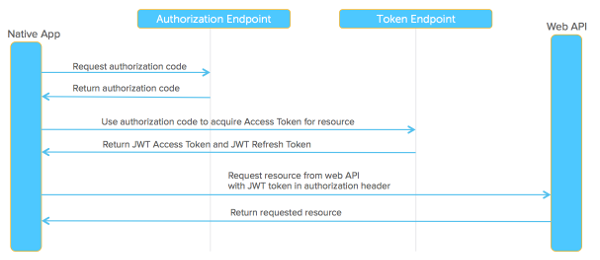
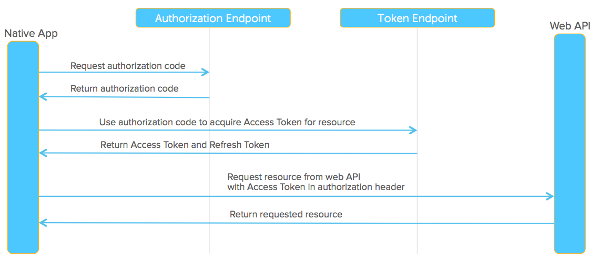
Don't push this commit. Finish it first.

Changed region(s): [[0.0, 0.0618, 0.99, 0.9884], [0.21, 0.0309, 0.51, 0.1236], [0.54, 0.0309, 0.84, 0.1236]]

diff --git a/_source/docs/api/resources/oauth2.md b/_source/docs/api/resources/oauth2.md
@@ -69,26 +69,12 @@ This is what the "state" parameter is used for in the flows described above; the
 
 ### Custom User Experience
 
-By default, the Authorization Endpoint will display the Okta login page and authenticate the user if they don't have an existing session. 
+By default, the Authorization Endpoint displays the Okta login page and authenticates the user if he or she doesn't have an existing session. 
 If you prefer to use a fully customized user experience, you can instead authenticate the user via the [Authentication API](http://developer.okta.com/docs/api/resources/authn.html). 
 This authentication method produces a `sessionToken` which can be passed into the Authorize Endpoint, and the user won't see an Okta login page.
 
 > Important: Okta uses public key cryptography to sign tokens and verify that they are valid. 
 See the last section of [Access Tokens](#access-tokens) for more information on the logic your application must have to ensure it’s always updated with the latest keys.
-
-### Reserved Scopes
-
-The Okta Authorization Server reserves a number of pre-defined (reserved) scopes which can't be overridden. 
-These include the standard OpenID Connect scopes (`openid`, `profile`, `email`, `phone`, `address`, `offline_access`) as well as a special scope called `groups`.
-
-Scopes are defined in the request parameter, and claims are in the Access Token returned from the request.
-
-> For more information about OpenID Connect and ID Tokens, see [OpenID Connect](/docs/api/resources/oidc.html). They are included here for completeness.
-
-* ID Tokens are returned with all requests to `/oauth2/v1/authorize`. In addition to reserve scopes and claims, ID Tokens contain an authorization grant.
-* Access Tokens and Refresh tokens are returned from requests to `/oauth2/v1/token` if the request contains an authorization code or Refresh Token.
-
-You can also define your own custom scopes in the request.
 
 ## Tokens
 {:.beta}
@@ -159,7 +145,9 @@ Access Tokens include pre-defined scopes and claims and can optionally contain c
 ##### Pre-defined scopes
 {:.beta}
 
-Pre-defined scopes include [OIDC scopes](oidc.html#scope-dependent-claims-not-always-returned).
+The Okta Authorization Server reserves a number of pre-defined (reserved) scopes which can't be overridden. Pre-defined scopes include [OIDC scopes](oidc.html#scope-dependent-claims-not-always-returned).
+
+Scopes are defined in the request parameter, and claims are in the Access Token returned from the request.
 {:.beta}
 
 ##### Pre-defined claims in the header section

diff --git a/_source/docs/api/resources/oidc.md b/_source/docs/api/resources/oidc.md
@@ -166,6 +166,8 @@ Claims in the payload are either base claims, independent of scope (always retur
 | address     | address    | User's preferred postal address. The value of the address member is a JSON structure containing *street_address*, *locality*, *region*, *postal_code*, and *country*.   | JSON structure    | { "street_address": "123 Hollywood Blvd.", "locality": "Los Angeles", "region": "CA", "postal_code": "90210", "country": "US" }     |
 | phone_number     |  phone   | User's preferred telephone number in E.164 format.   | String    | 	"+1 (425) 555-1212"     |
 | groups    | groups    | The groups that the user is a member of that also match the group filter of the client app. | List | ["MyGroup1", "MyGroup2", "MyGroup3"] |
+| openid    | ?????     | ????? | ???? | ???? |
+| offline_access | ?????  | ?????  | ????? | ????? |
 
 Be aware of the following before you work with scope-dependent claims:
 
